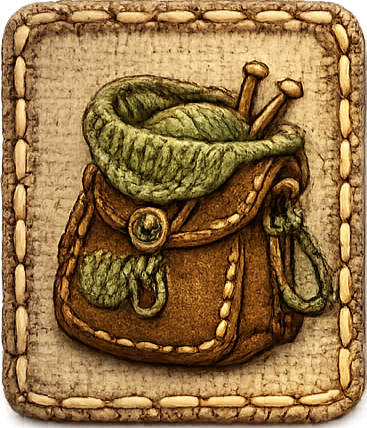
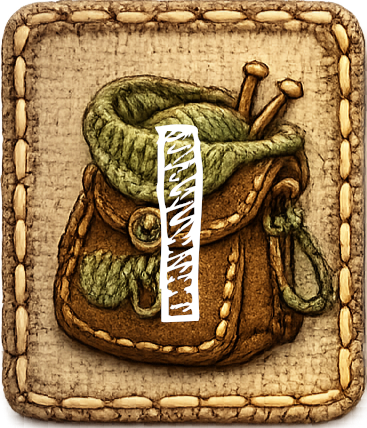
redesign

Changed region(s): [[0.4196, 0.2734, 0.5695, 0.7593]]

diff --git a/GraveDigger/GUI/HUD.cs b/GraveDigger/GUI/HUD.cs
@@ -22,9 +22,9 @@ public class HUD : UIContainer
             SpriteManager.GetSprite("InventoryButtonHover").Texture,
         SpriteManager.GetSprite("InventoryButtonPressed").Texture,
         SpriteManager.GetSprite("InventoryButtonDisabled").Texture);
-        inventoryButton.SetSize(80, 100);
-        inventoryButton.SetPosition((int) gameContext.ScreenSize.X - 160,
-            (int) gameContext.ScreenSize.Y - 180);
+        inventoryButton.SetSize(80, 80);
+        inventoryButton.SetPosition((int) gameContext.ScreenSize.X - 100,
+            (int) gameContext.ScreenSize.Y - 100);
         inventoryButton.OnClick += OpenInventory;
     }
 

diff --git a/GraveDigger/GUI/Components/ReputationView.cs b/GraveDigger/GUI/Components/ReputationView.cs
@@ -21,12 +21,12 @@ public class ReputationView : UIContainer
         
         badIcon = CreateElement<Image>();
         badIcon.SetSize(100, 100);
-        badIcon.SetPosition(20, 20);
+        badIcon.SetPosition(30, 20);
         badIcon.SetImage(SpriteManager.GetSprite("ReputationBadIcon").Texture);
         
         goodIcon = CreateElement<Image>();
-        goodIcon.SetSize(100, 100);
-        goodIcon.SetPosition(490, 20);
+        goodIcon.SetSize(100, 120);
+        goodIcon.SetPosition(490, 15);
         goodIcon.SetImage(SpriteManager.GetSprite("ReputationGoodIcon").Texture);
         
         sliderIcon = CreateElement<Image>();
